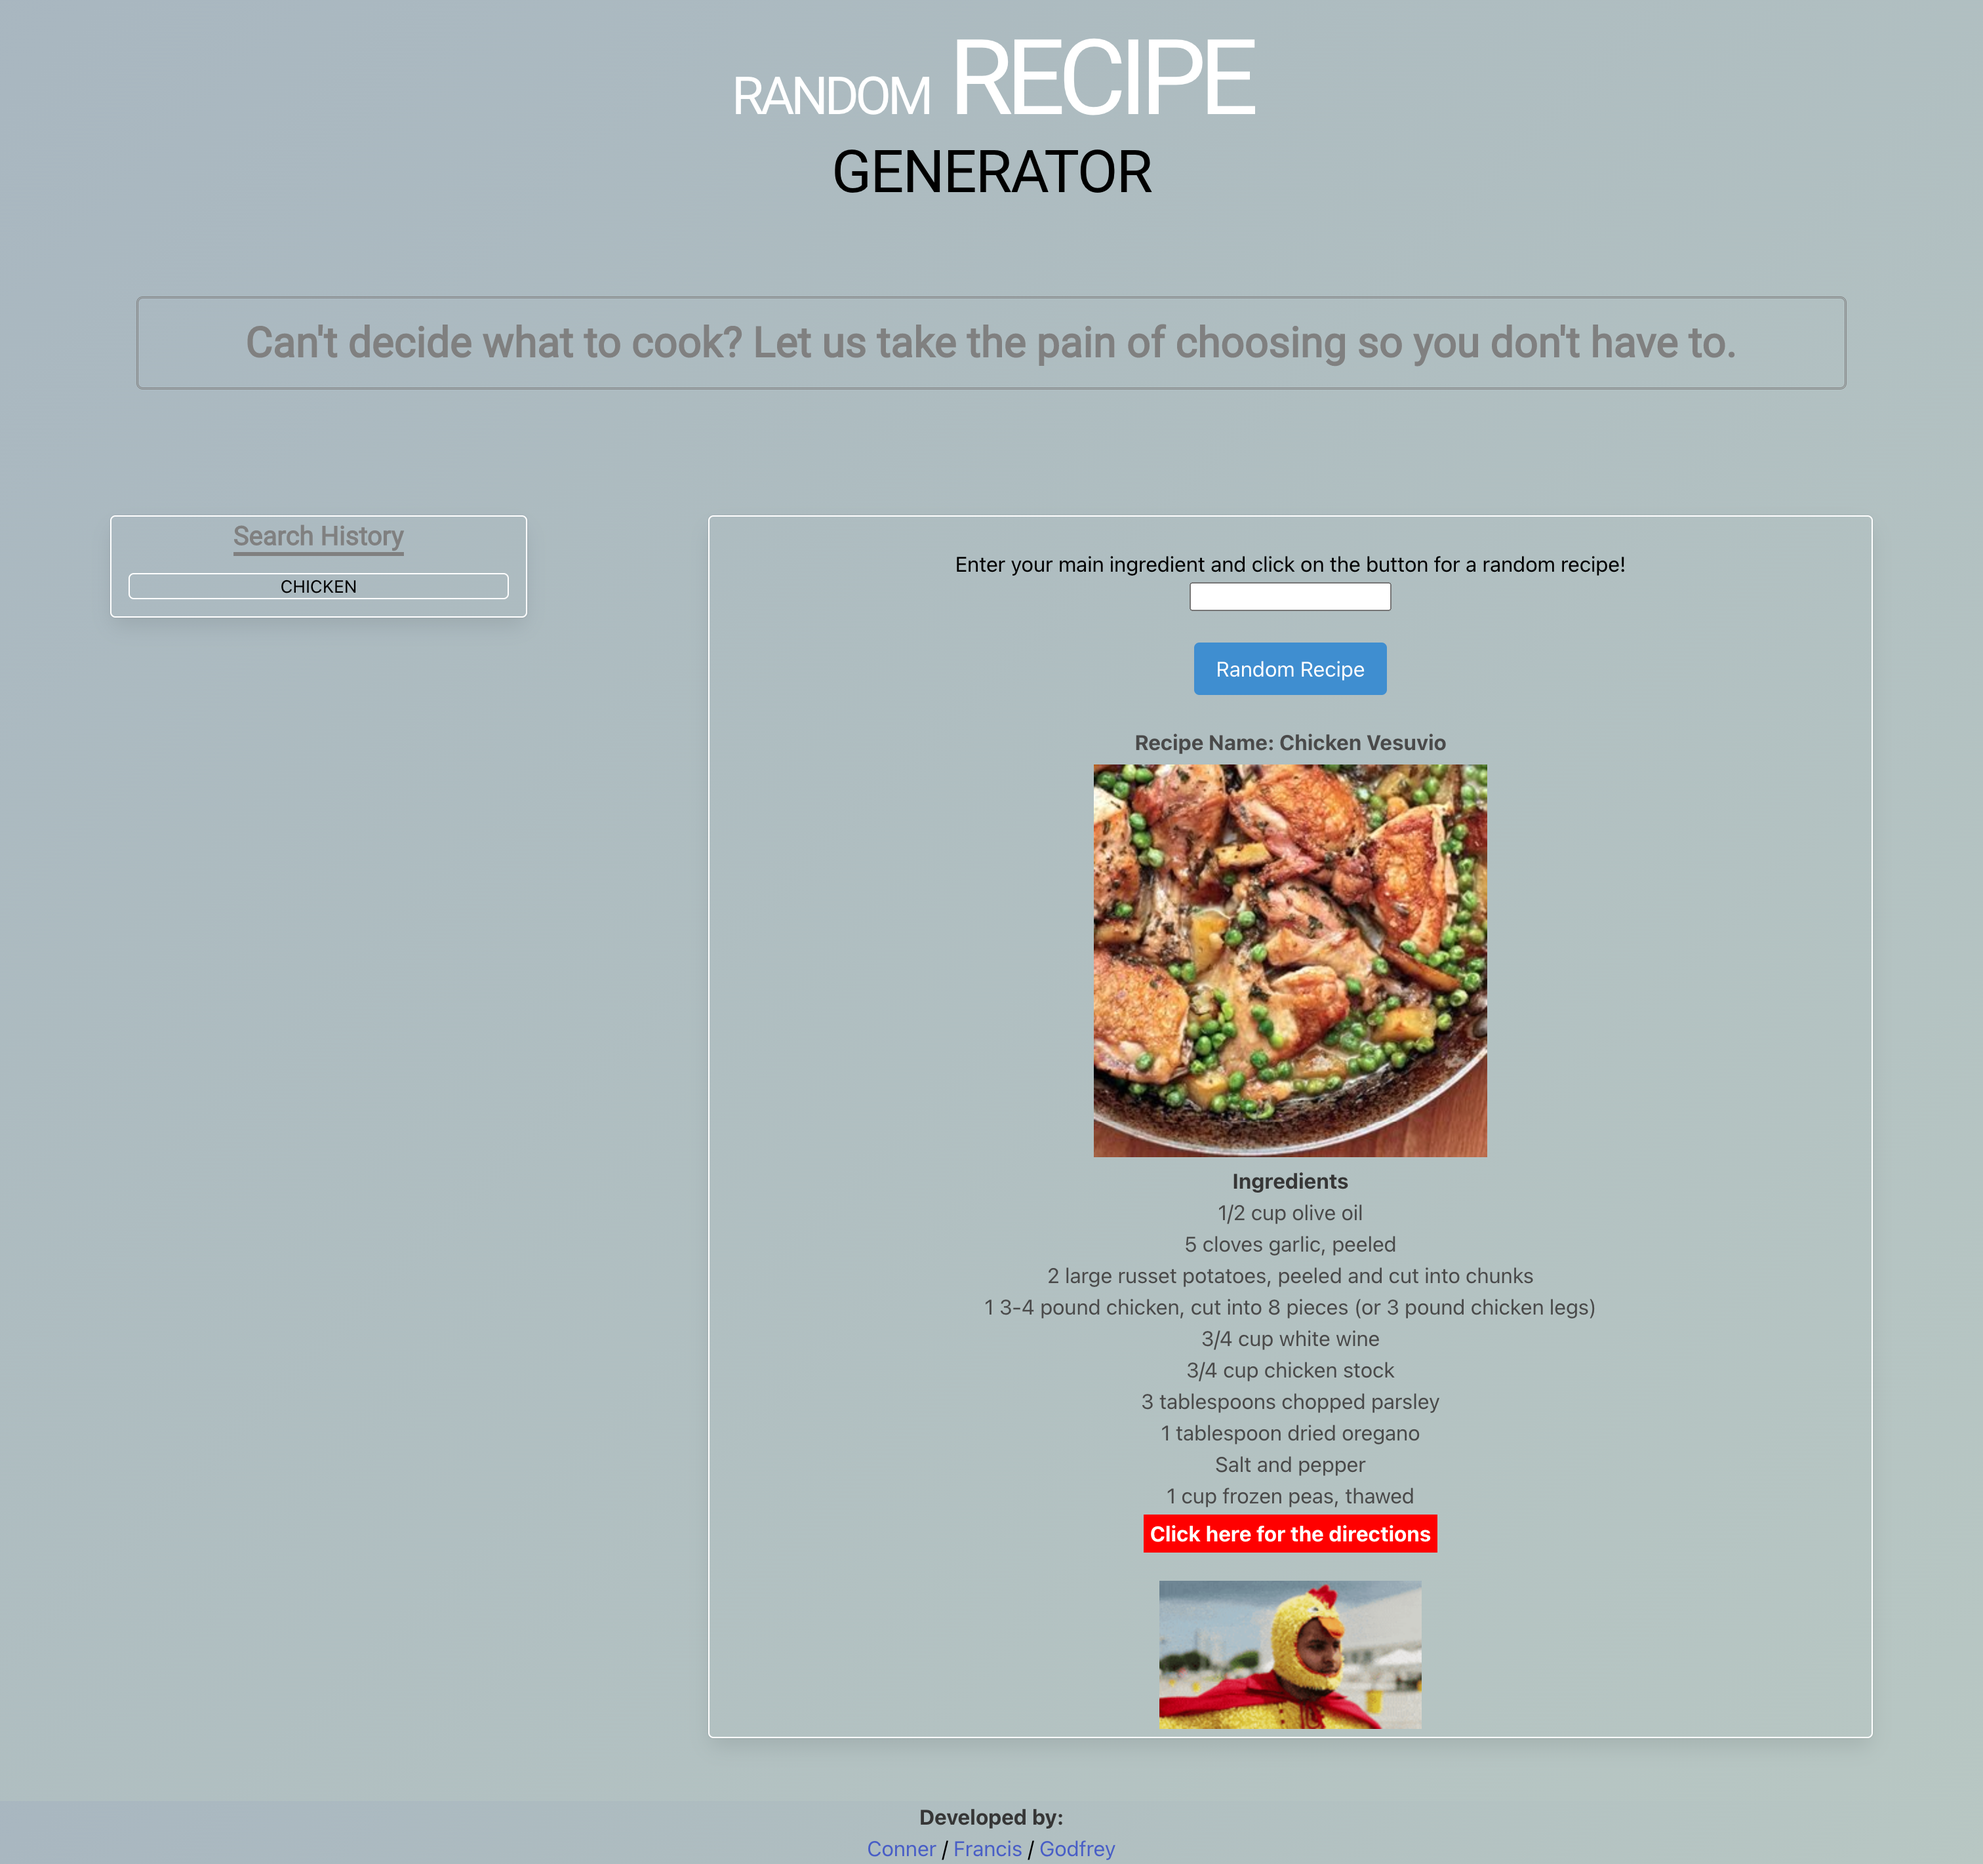
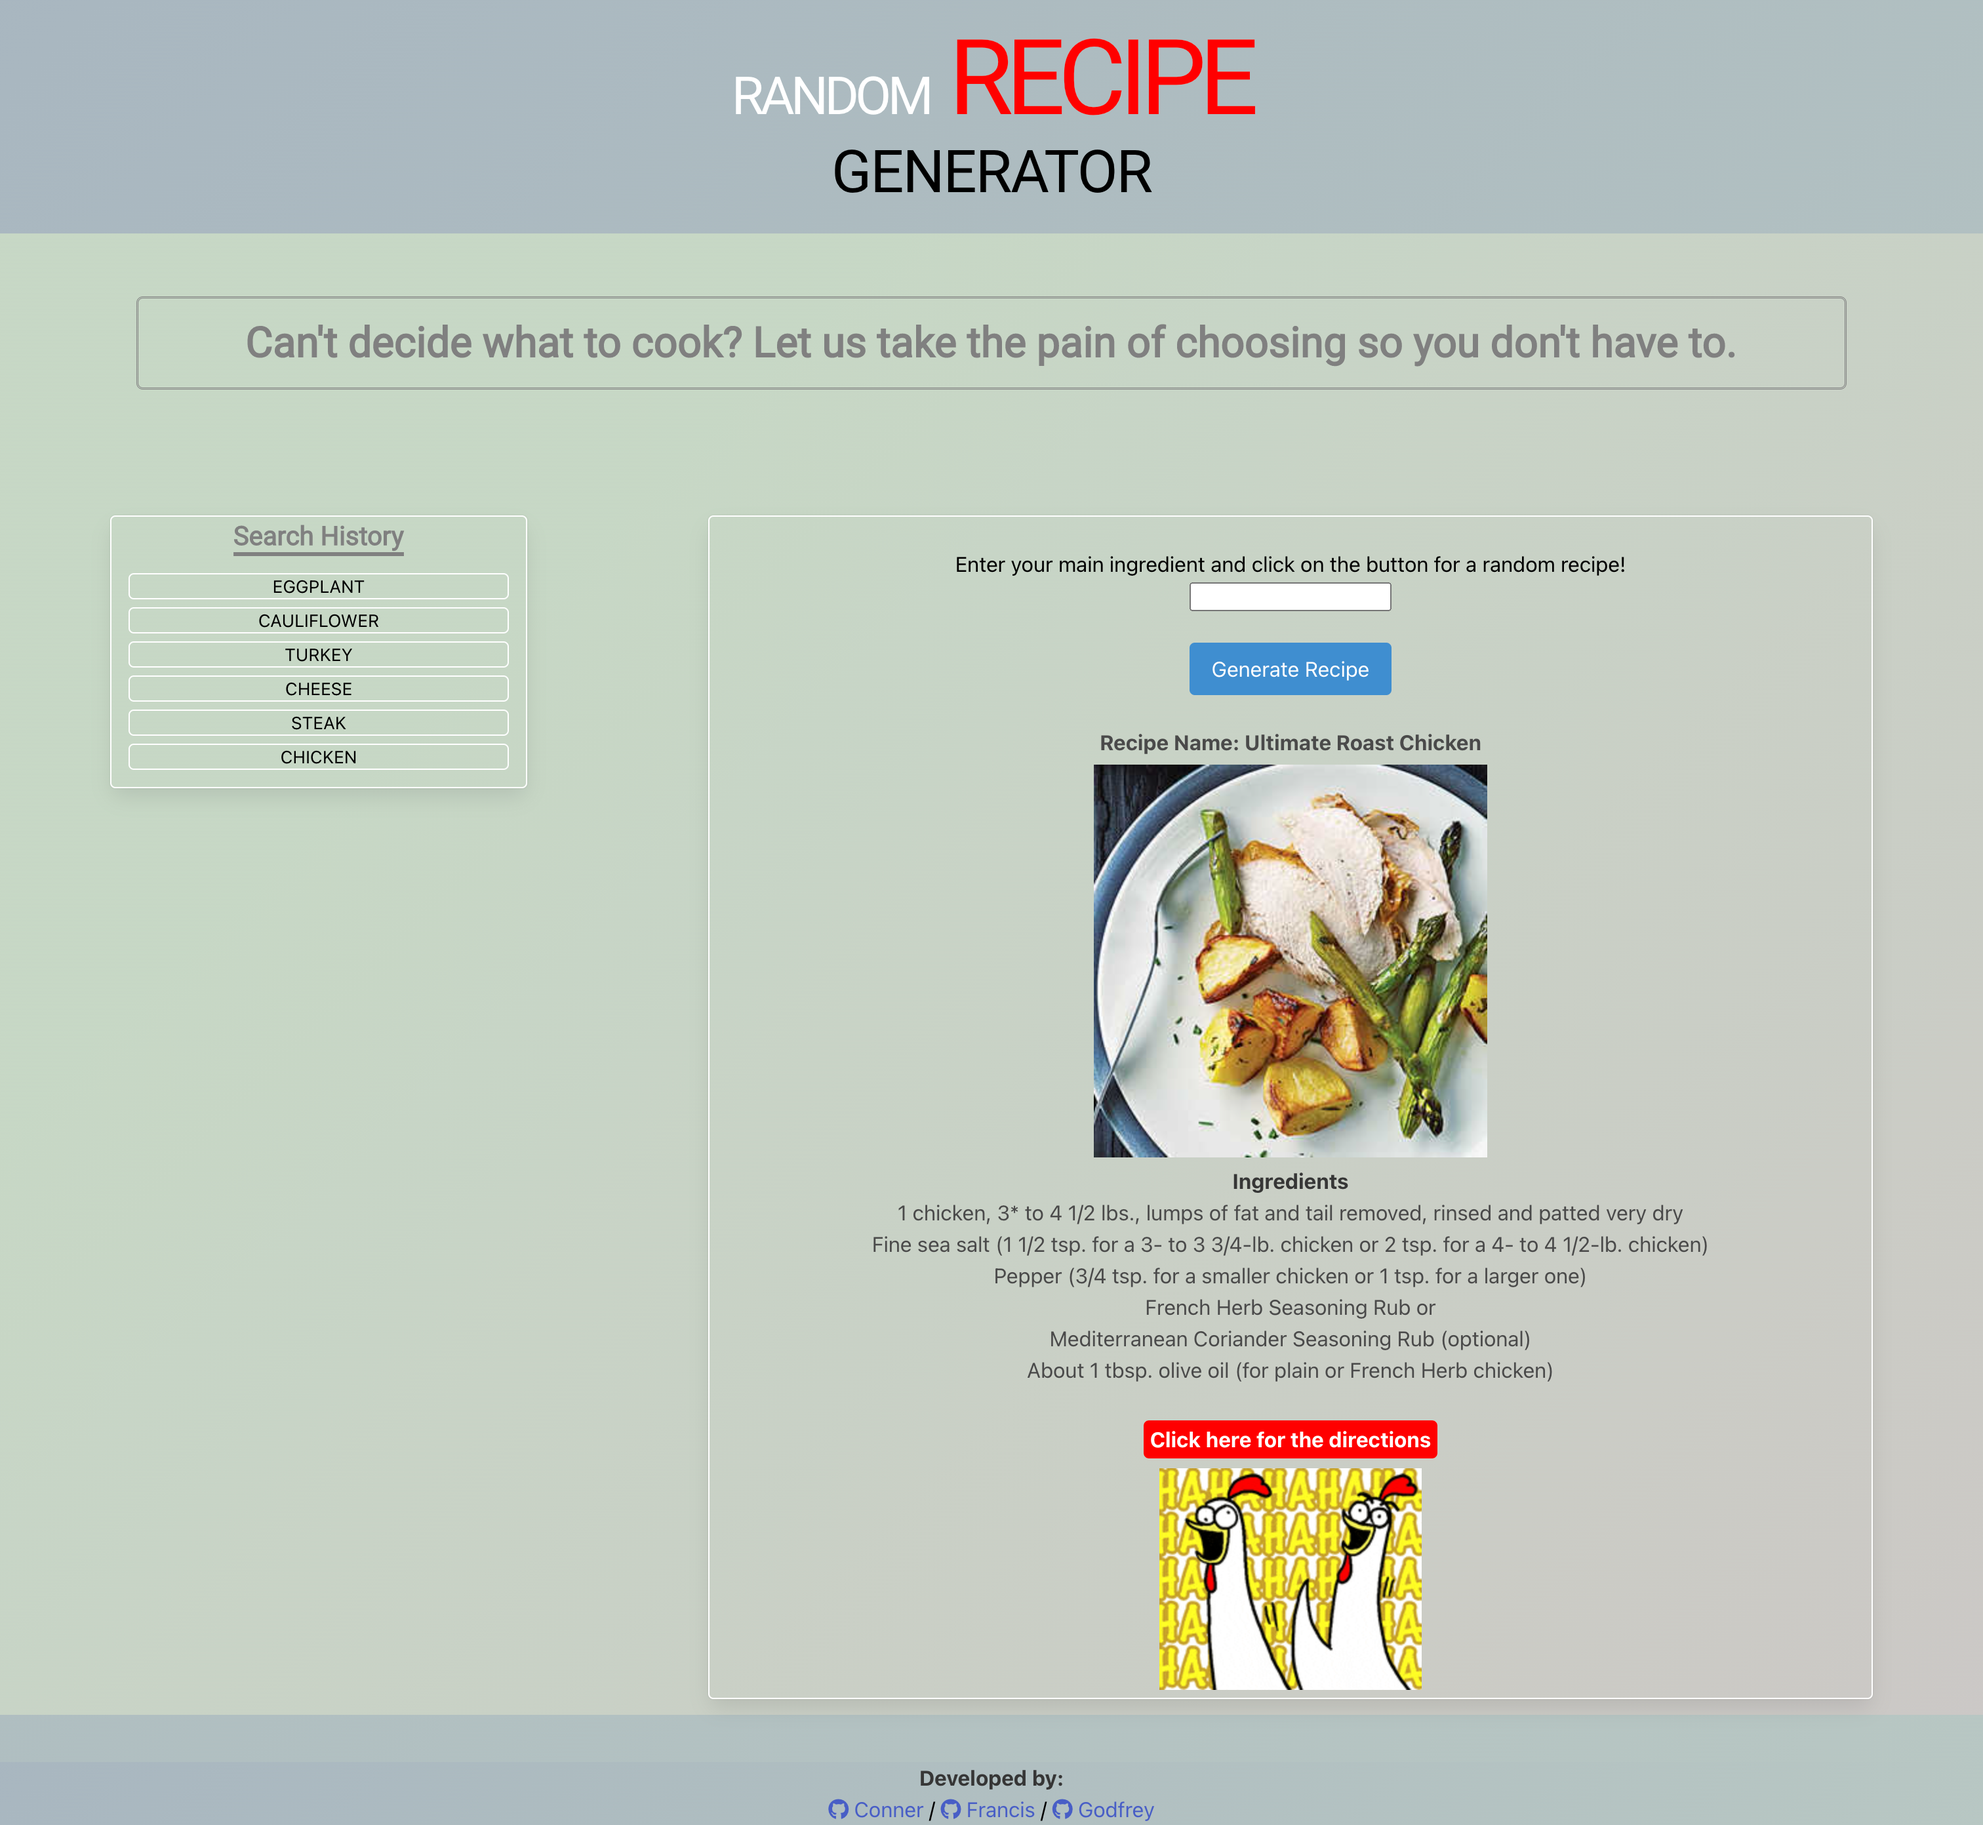
Added new screehshots and changed button value

diff --git a/index.html b/index.html
@@ -53,7 +53,7 @@
                             </div>
                             <div class="container">
                                 <div class="has-text-centered">
-                                    <input id="find-food" type="submit" value="Random Recipe" class="button is-info">
+                                    <input id="find-food" type="submit" value="Generate Recipe" class="button is-info">
                                 </div>
                             </div>
                             <br>
